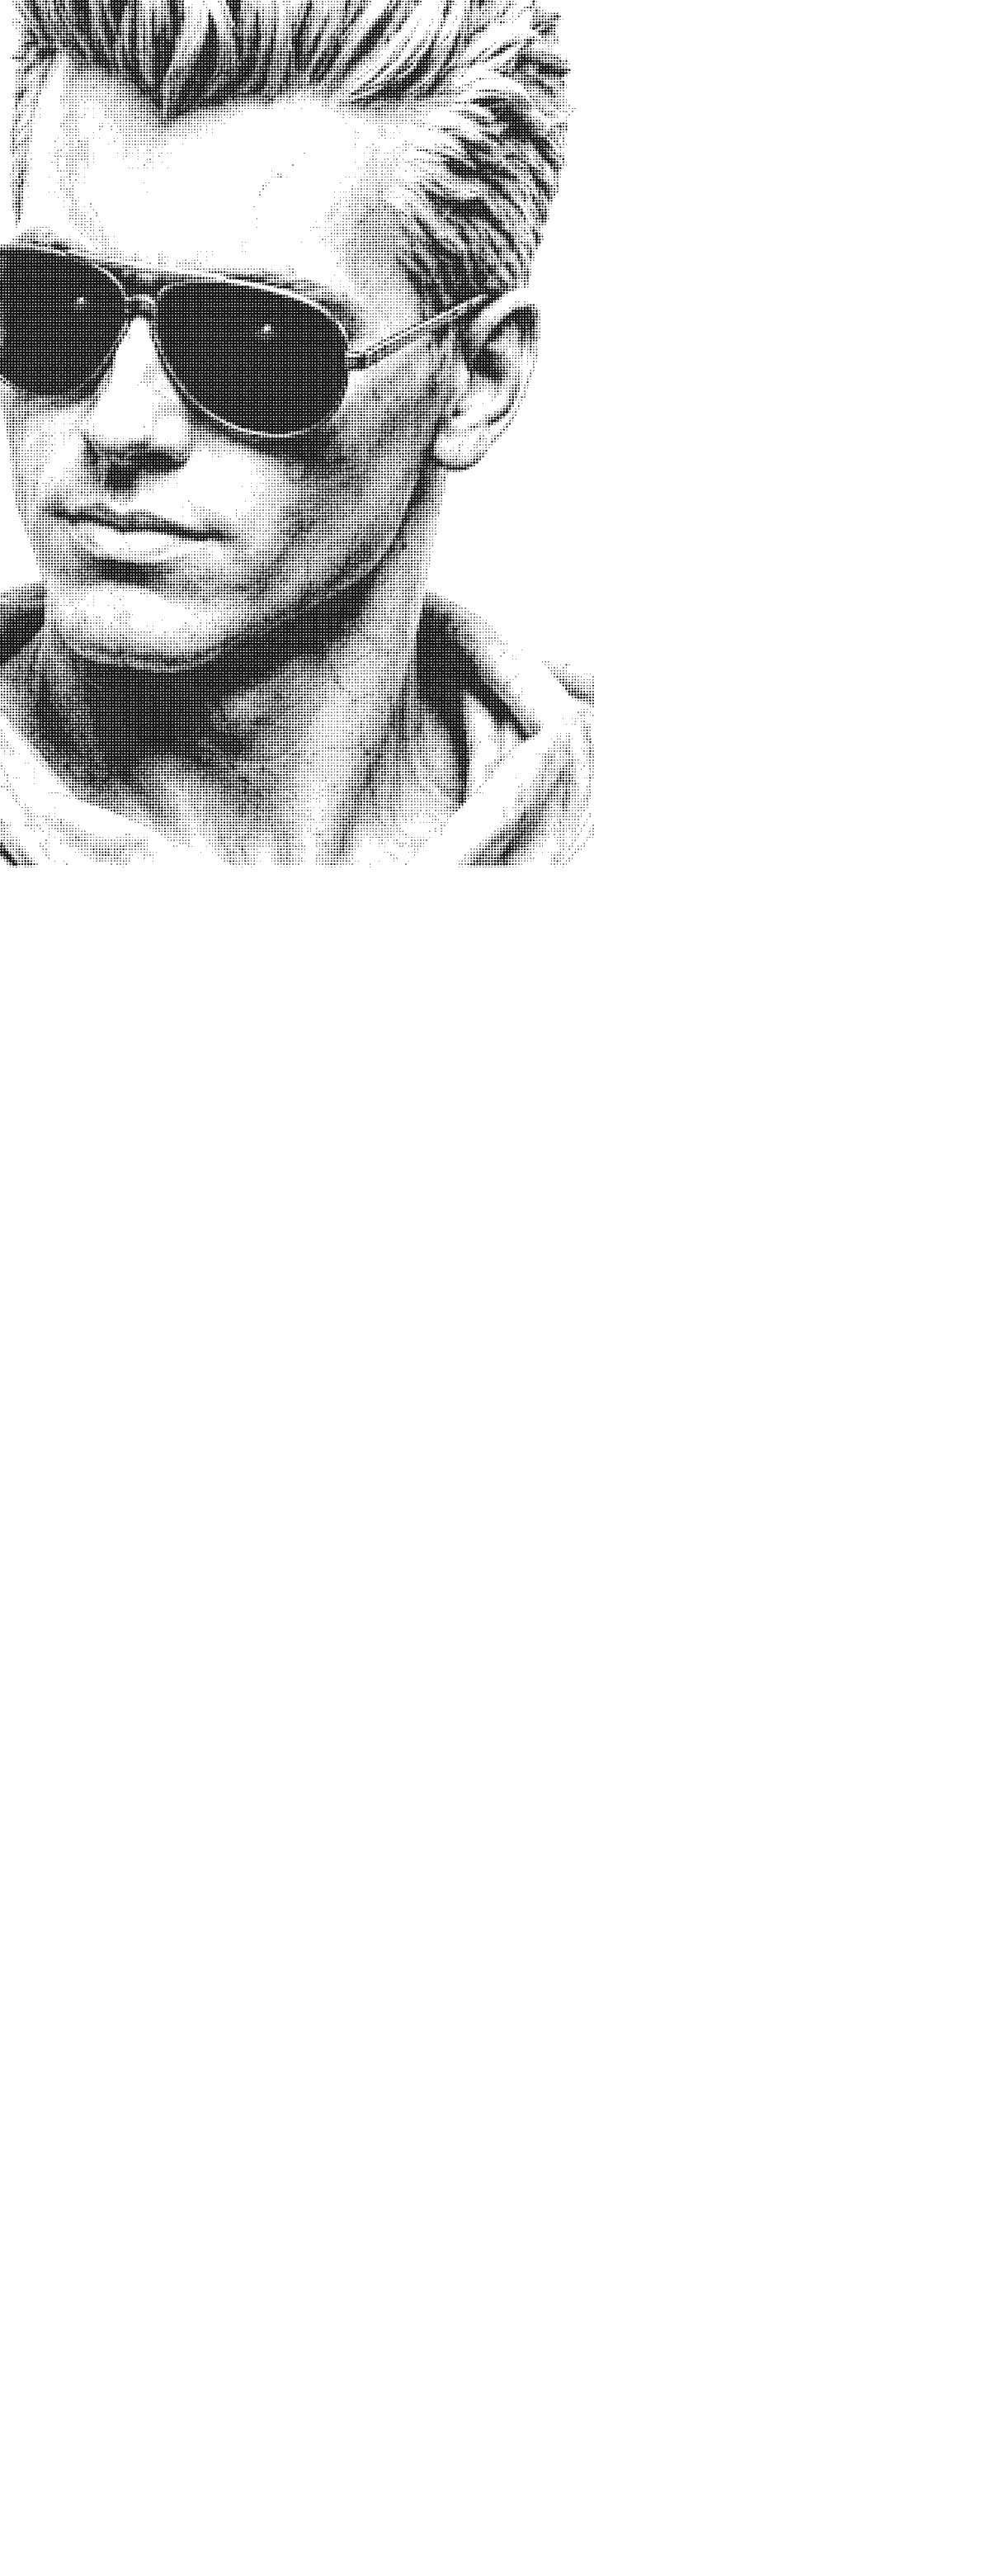
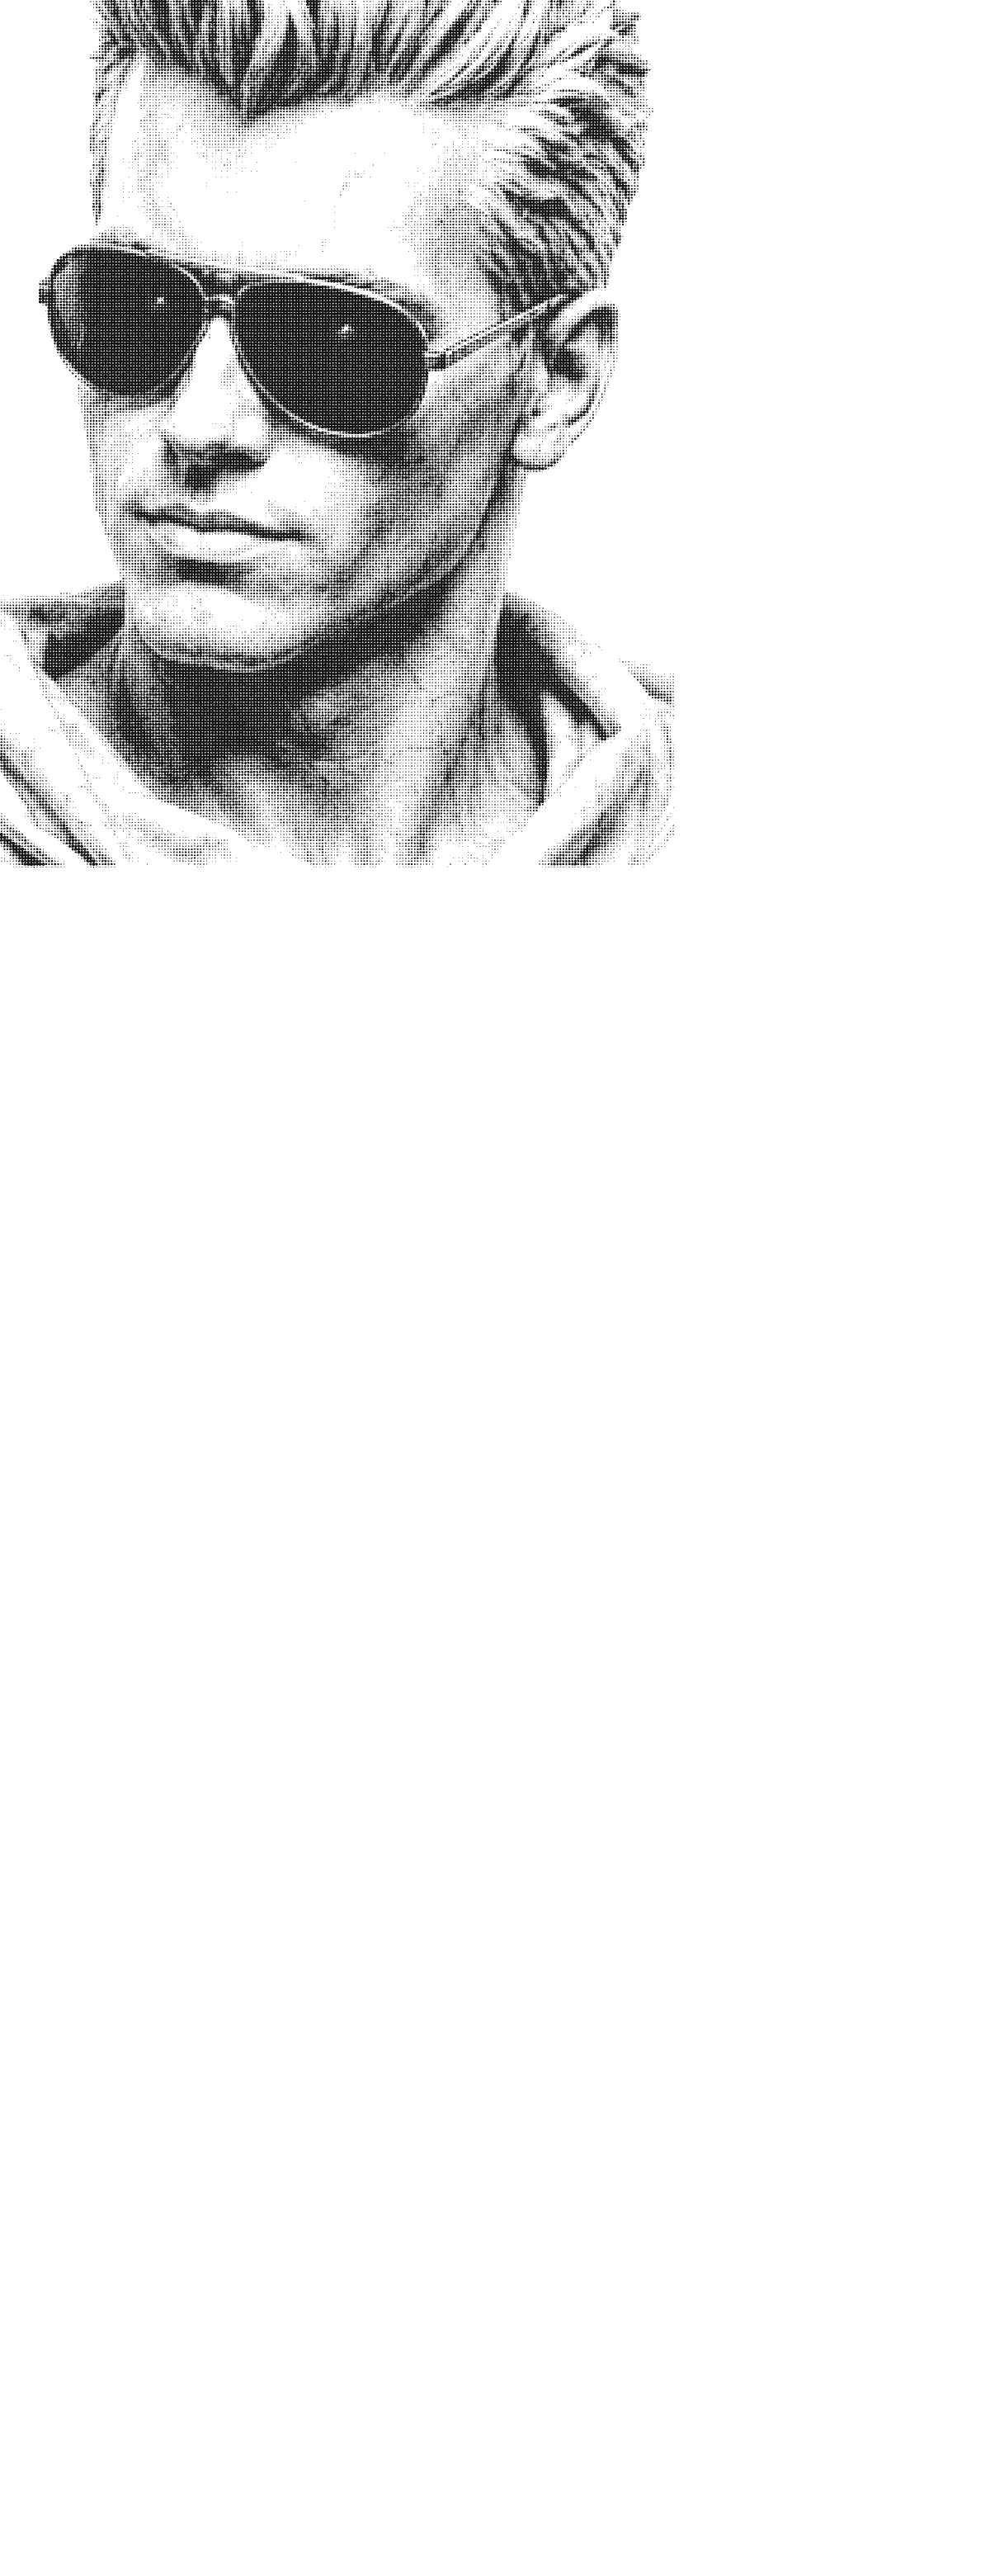
Constrain halftone to centered band; ease the left shift
- Stop letting the backdrop scale to the full viewport (it ballooned the
  head on wide desktops). Constrain it to a centered band (~1040px, the
  model's artboard) so the statue stays a consistent size vs the content.
- Reduce the left shift (-120 -> -40): nose + one lens peek into the left
  margin with the lens at the sneak-card middle, not half off-screen.

Changed region(s): [[0.0, 0.0, 0.6783, 0.3419]]

diff --git a/index.html b/index.html
@@ -81,17 +81,21 @@
     }
 
     /* Riso halftone backdrop — one even, fine, light dot screen of the stoic
-       operator, inset from the edges by a gutter (like the model). The source
-       PNG is deliberately TALL (statue at top, dot field baked down) so
-       background-size:cover binds by WIDTH, never the page height — keeping the
-       dots a fine, fixed size no matter how long the page gets. The head is
-       sized ~to the content width and dropped so the sunglasses land at the
-       middle of the sneak card. Scrolls with the page; low opacity keeps it a
-       faint backdrop under crisp content. */
+       operator. Constrained to a centered band (~the model's artboard width)
+       so the statue stays a consistent size RELATIVE TO THE CONTENT on any
+       screen — it no longer balloons on wide desktops. The source PNG is tall
+       (statue at top, dot field baked down) so cover binds by width, keeping
+       the dots fine at any page length. The statue is baked slightly left so
+       his nose and one sunglasses lens peek into the left margin, the lens at
+       the sneak card's middle; hair sits behind the headline. Light opacity. */
     body::before {
       content: "";
       position: absolute;
-      inset: 28px;                 /* stone gutter around the dot field */
+      top: 28px;
+      bottom: 28px;
+      left: 50%;
+      transform: translateX(-50%);
+      width: min(100% - 56px, 1040px);   /* gutter on the sides; capped like the artboard */
       z-index: 0;
       pointer-events: none;
       background-image: url('assets/statue-halftone.png');